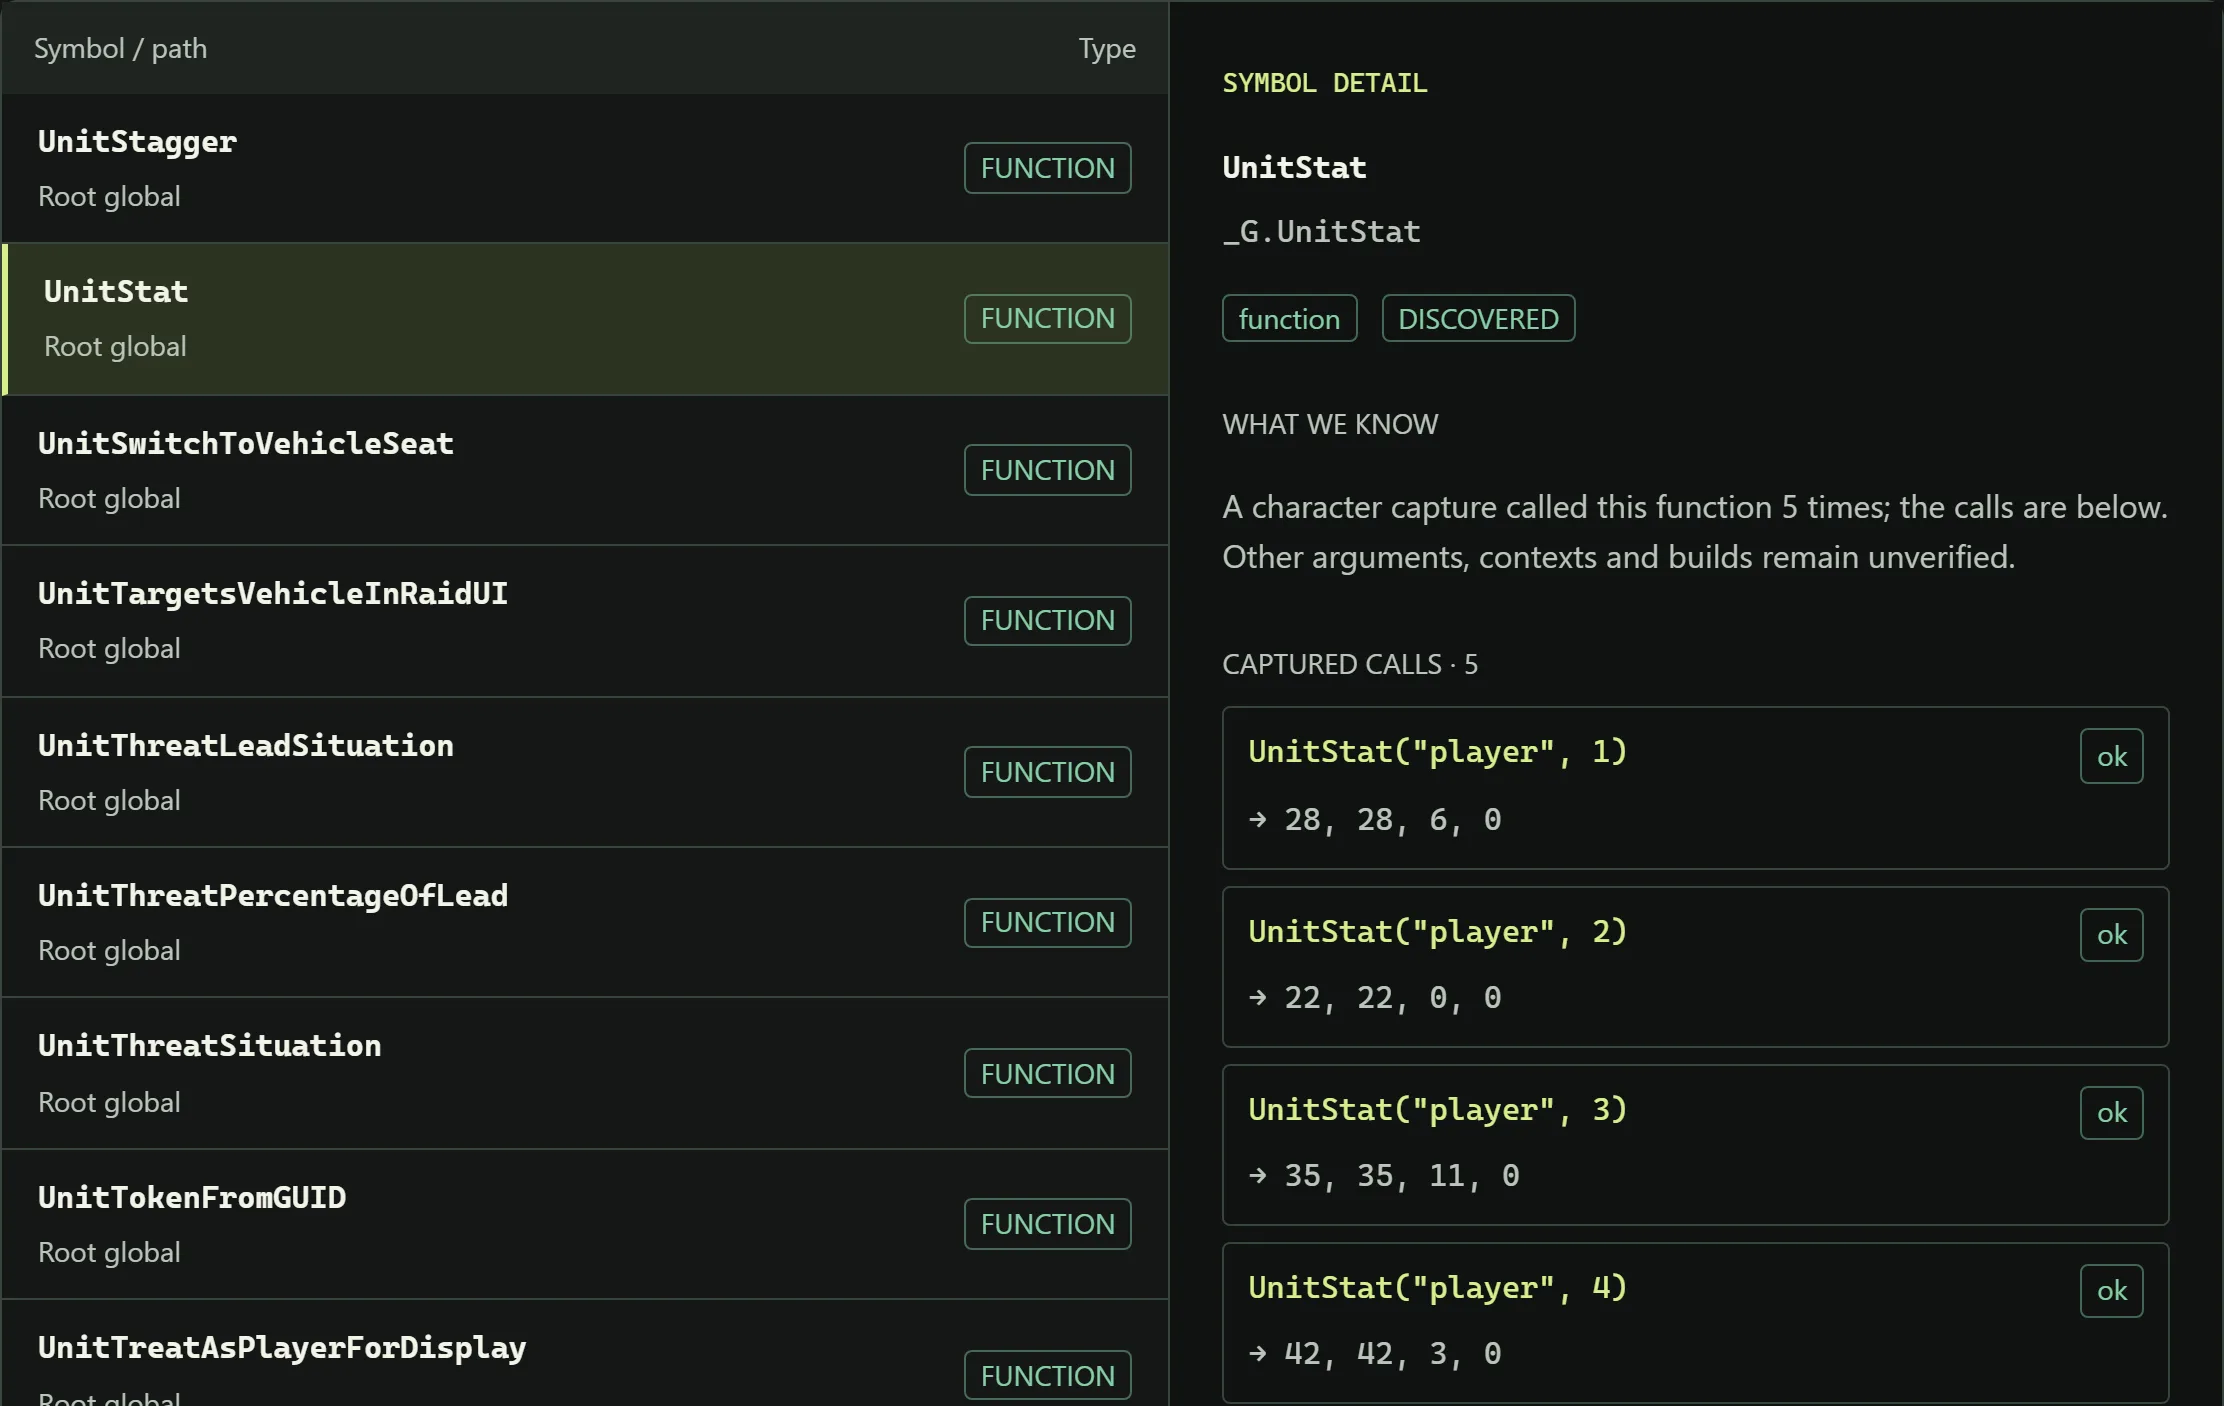
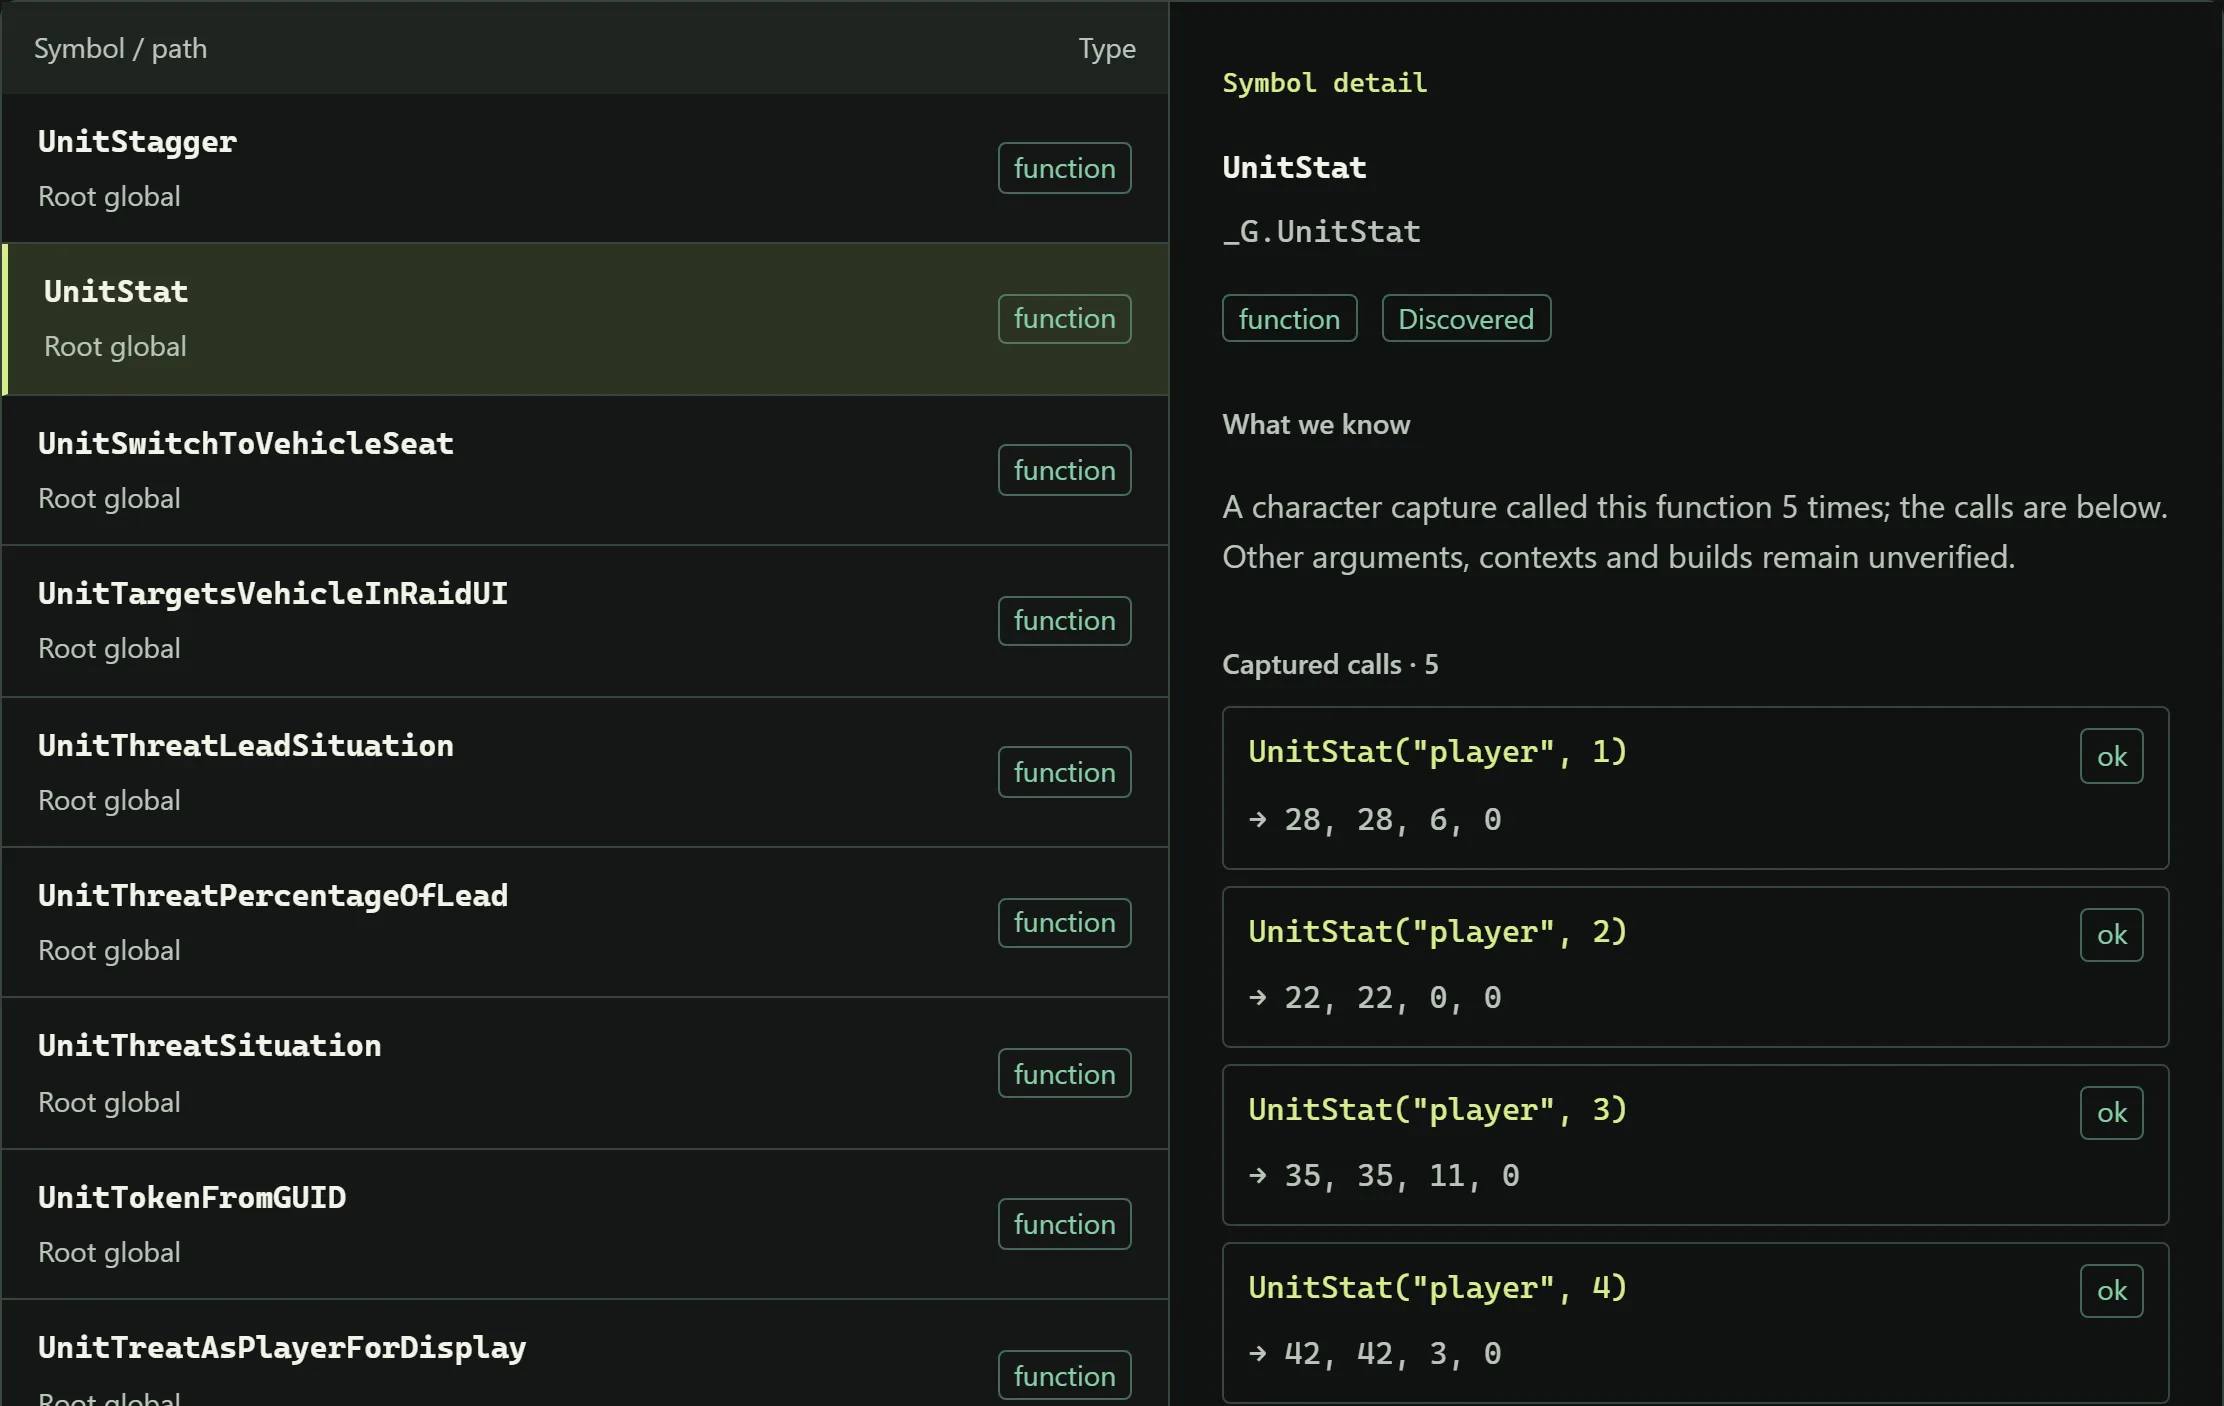
Write the detail panes' labels and kind tags in normal case
The shared design spec has no all-caps labels, but the symbol and
evidence detail panes still wrote theirs in capitals (SYMBOL DETAIL,
WHAT WE KNOW, CAPTURED CALLS, OBSERVED LUA CALL and the rest), and the
kind and status tags were upper-cased in script. They're now in sentence
case, and the tags show the word as captured (function, ok). Section
labels gain weight 600, so they still read as labels.

test_design.py now fails on toUpperCase() (other than a first letter)
or an all-caps word in the markup the site's scripts write. The README
screenshot is retaken.

Closes #46

diff --git a/dist/app.js b/dist/app.js
@@ -42,7 +42,7 @@ function render(){
  $('#result-count').textContent=matches.length.toLocaleString()+' results';
  const slice=matches.slice(page*pageSize,(page+1)*pageSize);
  const where=r=>r.path.startsWith('_G.C_')?'Namespaced symbol':/^_G\.[A-Za-z_]\w*$/.test(r.path)?'Root global':'Nested environment path';
- $('#results').innerHTML=slice.map(r=>{const n=childCount.get(r.path);return `<a class="row" href="${esc(link({symbol:r.path}))}"${selected===r?' aria-current="true"':''}><span class="symbol"><strong>${esc(short(r.path))}</strong><small>${esc(where(r))}${n?` · ${n.toLocaleString()} ${n===1?'child':'children'}`:''}</small></span><span class="kind ${r.kind}">${r.kind.toUpperCase()}</span></a>`;}).join('')||'<p class="empty">No matching symbols. Try a broader search or clear your filters.</p>';
+ $('#results').innerHTML=slice.map(r=>{const n=childCount.get(r.path);return `<a class="row" href="${esc(link({symbol:r.path}))}"${selected===r?' aria-current="true"':''}><span class="symbol"><strong>${esc(short(r.path))}</strong><small>${esc(where(r))}${n?` · ${n.toLocaleString()} ${n===1?'child':'children'}`:''}</small></span><span class="kind ${r.kind}">${r.kind}</span></a>`;}).join('')||'<p class="empty">No matching symbols. Try a broader search or clear your filters.</p>';
  // Keep the selected row in view inside the scrolling list, without scrolling the page.
  const current=$('#results [aria-current=true]'),list=$('#results');
  if(!current)list.scrollTop=0;
@@ -58,10 +58,10 @@ function detail(){
  const note=r.kind==='function'?(calls.length?`A character capture called this function ${calls.length===1?'once':calls.length+' times'}; the calls are below. Other arguments, contexts and builds remain unverified.`:'This path resolved to a function during the scan. Arguments, return values, behavior and safety were not captured. Verify the contract in game before calling it.'):r.kind==='table'?'A table was found at this path. Descendants may be absent because of alias deduplication, depth limits or the scan entry limit.':r.kind==='value'?'This is the value observed during this snapshot. It may be UI text, a constant, configuration or addon state; it is not automatically character data.':'An opaque Lua object was observed here. The dump records its type, without serializing its internals.';
  const snippet=r.kind==='function'?(calls.length?`-- Observed call from a character capture\n${r.path}(${window.AtlasEvidence.args(calls[0])})\n-- Other arguments and contexts are unverified.`:`-- Observed function reference; signature unknown\nlocal fn = ${r.path}\n-- Confirm arguments and returns before calling.`):`-- Observed ${r.kind} reference\nlocal value = ${r.path}`;
  const shown=calls.slice(0,6),ev=window.AtlasEvidence;
- const callList=calls.length?`<div class="detail-label">CAPTURED CALLS · ${calls.length}</div><ul class="calls">${shown.map(q=>`<li><a href="${esc(Atlas.href('evidence',{q:r.path,call:q.index}))}"><code>${esc(short(r.path))}(${esc(ev.args(q))})</code><span class="kind ${ev.outcome(q)[1]}">${ev.outcome(q)[0]}</span></a><div class="call-result">→ ${esc(ev.result(q))}</div></li>`).join('')}</ul><a class="copy" href="${esc(Atlas.href('evidence',{q:r.path}))}">${calls.length>shown.length?`All ${calls.length} calls`:'Open in Character evidence'} →</a>`:'';
+ const callList=calls.length?`<div class="detail-label">Captured calls · ${calls.length}</div><ul class="calls">${shown.map(q=>`<li><a href="${esc(Atlas.href('evidence',{q:r.path,call:q.index}))}"><code>${esc(short(r.path))}(${esc(ev.args(q))})</code><span class="kind ${ev.outcome(q)[1]}">${ev.outcome(q)[0]}</span></a><div class="call-result">→ ${esc(ev.result(q))}</div></li>`).join('')}</ul><a class="copy" href="${esc(Atlas.href('evidence',{q:r.path}))}">${calls.length>shown.length?`All ${calls.length} calls`:'Open in Character evidence'} →</a>`:'';
  const tableInfo=r.kind==='table'?`<p class="detail-note">Recorded depth: ${r.depth} · ${children?`${children.toLocaleString()} ${children===1?'child':'children'} captured`:'no children captured'}</p>${children?`<a class="copy" href="${esc(Atlas.href('explorer',{under:r.path}))}">Browse ${children.toLocaleString()} ${children===1?'child':'children'} →</a>`:''}`:'';
  const parent=parentOf(r.path);
- $('#detail').innerHTML=`<span class="eyebrow">SYMBOL DETAIL</span><h3>${esc(short(r.path))}</h3><div class="detail-path">${esc(r.path)}${parent&&byPath.has(parent)?` · in <a href="${esc(Atlas.href('explorer',{under:parent,symbol:r.path}))}">${esc(short(parent))}</a>`:''}</div><p><span class="kind ${r.kind}">${esc(r.type||r.kind)}</span> <span class="tag">DISCOVERED</span></p><div class="detail-label">WHAT WE KNOW</div><p class="detail-note">${note}</p>${callList}${tableInfo}${r.kind==='value'?`<div class="detail-label">CAPTURED VALUE${r.truncated?' · TRUNCATED TO 512 BYTES':''}</div><pre>${esc(JSON.stringify(r.value,null,2))}</pre>`:''}<div class="detail-label">LUA REFERENCE</div><pre>${esc(snippet)}</pre><button class="copy" id="copy">Copy Lua reference</button><p class="detail-note">Reference only · run reviewed code in the WoW client.<br>Source: ${esc(data.source)}</p>`;
+ $('#detail').innerHTML=`<span class="eyebrow">Symbol detail</span><h3>${esc(short(r.path))}</h3><div class="detail-path">${esc(r.path)}${parent&&byPath.has(parent)?` · in <a href="${esc(Atlas.href('explorer',{under:parent,symbol:r.path}))}">${esc(short(parent))}</a>`:''}</div><p><span class="kind ${r.kind}">${esc(r.type||r.kind)}</span> <span class="tag">Discovered</span></p><div class="detail-label">What we know</div><p class="detail-note">${note}</p>${callList}${tableInfo}${r.kind==='value'?`<div class="detail-label">Captured value${r.truncated?' · truncated to 512 bytes':''}</div><pre>${esc(JSON.stringify(r.value,null,2))}</pre>`:''}<div class="detail-label">Lua reference</div><pre>${esc(snippet)}</pre><button class="copy" id="copy">Copy Lua reference</button><p class="detail-note">Reference only · run reviewed code in the WoW client.<br>Source: ${esc(data.source)}</p>`;
  $('#copy').onclick=async()=>{try{await navigator.clipboard.writeText(snippet);$('#copy').textContent='Copied ✓';}catch{$('#copy').textContent='Select and copy the reference above';}};
 }
 // Typing, filters and paging replace the history entry; picking a symbol or a table (links) adds one.

diff --git a/dist/character.js b/dist/character.js
@@ -54,7 +54,7 @@ function evidenceDetail(){
  // Display typed nodes verbatim: positional nils and redaction are evidence.
  const result=q.returns?JSON.stringify(q.returns,null,2):q.error||q.serializationError||q.expansionError||'No return values captured.';
  const reference=`-- Observed invocation on build ${characterData.client.build}\n-- Review client context before running.\n${q.path}(${argsText(q)})`;
- $('#evidence-detail').innerHTML=`<div class="eyebrow">OBSERVED CALL · ${esc(q.status.toUpperCase())}</div><h3>${esc(q.path.replace(/^_G\./,''))}</h3><p class="detail-note">${text}</p><div class="detail-label">ARGUMENTS · ${q.argumentCount}</div><pre>${esc(JSON.stringify(q.arguments,null,2))}</pre><div class="detail-label">${q.returnCount===undefined?'RESULT':q.returnCount+' POSITIONAL RETURNS'} · TYPED EVIDENCE</div><pre>${esc(result)}</pre><details><summary>Captured query record</summary><pre>${esc(JSON.stringify(q,null,2))}</pre></details><div class="detail-label">OBSERVED LUA CALL</div><pre>${esc(reference)}</pre><button class="copy" id="copy-evidence">Copy observed call</button><p class="detail-note">Client ${esc(characterData.client.version)} · build ${esc(characterData.client.build)}<br>Captured ${esc(new Date(q.capturedAt*1000).toISOString())}<br>${esc(characterData.source)}</p>`;
+ $('#evidence-detail').innerHTML=`<div class="eyebrow">Observed call · ${esc(q.status)}</div><h3>${esc(q.path.replace(/^_G\./,''))}</h3><p class="detail-note">${text}</p><div class="detail-label">Arguments · ${q.argumentCount}</div><pre>${esc(JSON.stringify(q.arguments,null,2))}</pre><div class="detail-label">${q.returnCount===undefined?'Result':q.returnCount+' positional returns'} · typed evidence</div><pre>${esc(result)}</pre><details><summary>Captured query record</summary><pre>${esc(JSON.stringify(q,null,2))}</pre></details><div class="detail-label">Observed Lua call</div><pre>${esc(reference)}</pre><button class="copy" id="copy-evidence">Copy observed call</button><p class="detail-note">Client ${esc(characterData.client.version)} · build ${esc(characterData.client.build)}<br>Captured ${esc(new Date(q.capturedAt*1000).toISOString())}<br>${esc(characterData.source)}</p>`;
  $('#copy-evidence').onclick=async()=>{try{await navigator.clipboard.writeText(reference);$('#copy-evidence').textContent='Copied ✓';}catch{$('#copy-evidence').textContent='Select and copy the reference above';}};
 }
 let evidenceLoad=0;

diff --git a/dist/style.css b/dist/style.css
@@ -119,7 +119,7 @@ select{color:var(--ink);border-radius:var(--radius-sm)}
 #detail{padding:26px;background:var(--sunken);min-width:0}
 #detail h3{font-family:var(--font-mono);font-size:var(--text-md);overflow-wrap:anywhere;line-height:1.5;margin:20px 0 8px}
 .detail-path{color:var(--muted);overflow-wrap:anywhere;font-family:var(--font-mono);font-size:var(--text-md)}
-.detail-label{font-size:var(--text-sm);color:var(--muted);margin-top:30px;margin-bottom:10px}
+.detail-label{font-size:var(--text-sm);font-weight:600;color:var(--muted);margin-top:30px;margin-bottom:10px}
 .detail-note{color:var(--muted)}
 pre{font-family:var(--font-mono);font-size:1em;white-space:pre-wrap;overflow-wrap:anywhere;background:var(--sunken);border:1px solid var(--line);border-radius:var(--radius-sm);padding:16px;color:var(--muted);max-height:300px;overflow:auto}
 .pagination{padding:15px;display:flex;align-items:center;justify-content:space-between;font-size:var(--text-sm);color:var(--muted)}

diff --git a/scripts/test_design.py b/scripts/test_design.py
@@ -26,5 +26,36 @@ class DesignTests(unittest.TestCase):
                     self.assertGreaterEqual(float(size), 0.875)
 
 
+SCRIPTS = {
+    path.name: path.read_text(encoding='utf-8')
+    for pattern in ('*.js', '*.mjs')
+    for path in (Path(__file__).resolve().parents[1] / 'dist').glob(pattern)
+}
+# Names that are written in capitals anyway.
+ACRONYMS = {'API', 'GUID', 'JSON', 'UI', 'ID', 'NPC', 'XP'}
+
+
+class LabelCaseTests(unittest.TestCase):
+    """The shared spec has no all-caps labels (#46): text is written as it reads."""
+
+    def test_no_text_is_upper_cased_in_script(self):
+        for name, source in SCRIPTS.items():
+            with self.subTest(script=name):
+                # Capitalising a first letter, for sentence case, is fine.
+                calls = re.findall(r'(?<!\[0\]\.)(?<!charAt\(0\)\.)toUpperCase\(\)', source)
+                self.assertEqual(calls, [])
+
+    def test_markup_text_has_no_all_caps_words(self):
+        for name, source in SCRIPTS.items():
+            with self.subTest(script=name):
+                shouting = []
+                # Text between tags, and quoted words, in the markup the scripts write.
+                for text in re.findall(r">([^<>`$]+)<|'([A-Za-z][A-Za-z ·]*)'", source):
+                    for word in re.findall(r'\b[A-Z]{3,}\b', ''.join(text)):
+                        if word not in ACRONYMS:
+                            shouting.append(word)
+                self.assertEqual(shouting, [])
+
+
 if __name__ == '__main__':
     unittest.main()
